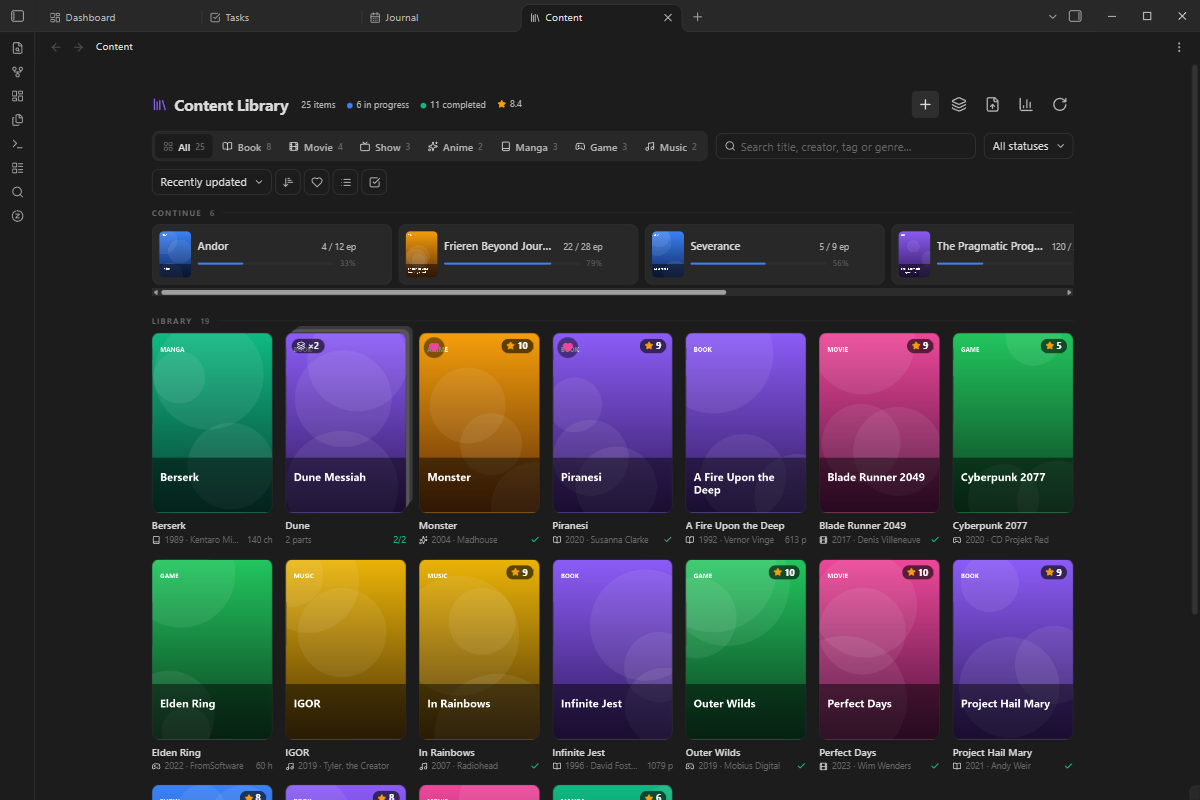
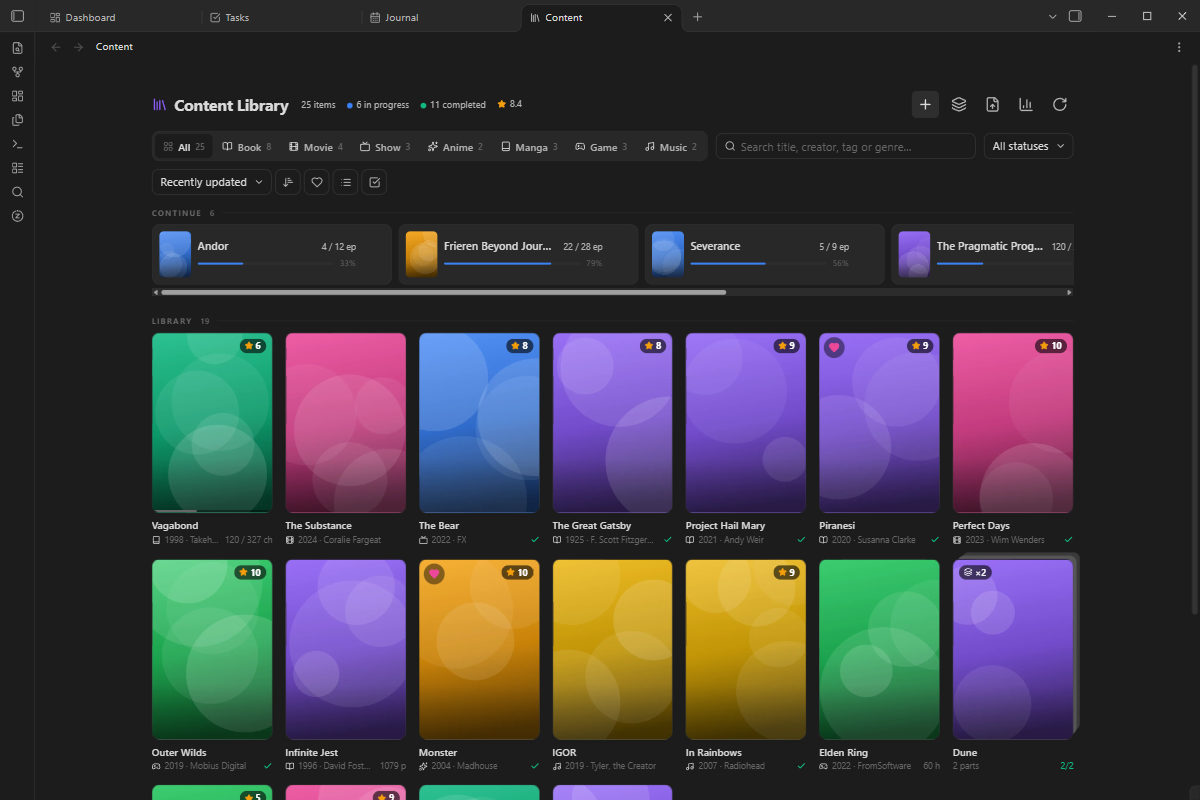
README: the pictures retaken on this build and the new demo vault
The library's covers without words on them, the Library card with its third row, Zenith's own icon in the ribbon throughout. The pictures are now simply of the demo vault: the board they show is the one it opens on.

diff --git a/README.ru.md b/README.ru.md
@@ -35,8 +35,8 @@
 | --- | --- | --- | --- | --- |
 | ![Дашборд на телефоне](docs/images/screenshots/mobile-1-dashboard.png) | ![Задачи на телефоне](docs/images/screenshots/mobile-2-tasks.png) | ![Дневник на телефоне](docs/images/screenshots/mobile-3-journal.png) | ![Библиотека на телефоне](docs/images/screenshots/mobile-4-library.png) | ![Доска ниже по экрану](docs/images/screenshots/mobile-5-board.png) |
 
-Всё на картинках выдумано: они сняты в демо-хранилище, которое прилагается к каждому
-[релизу](https://github.com/saifun0/obsidian-zenith/releases), с доской, собранной для съёмки.
+Всё на картинках выдумано: это демо-хранилище, которое прилагается к каждому
+[релизу](https://github.com/saifun0/obsidian-zenith/releases).
 
 ---
 

diff --git a/README.md b/README.md
@@ -35,8 +35,8 @@ On a phone:
 | --- | --- | --- | --- | --- |
 | ![The dashboard on a phone](docs/images/screenshots/mobile-1-dashboard.png) | ![Tasks on a phone](docs/images/screenshots/mobile-2-tasks.png) | ![The journal on a phone](docs/images/screenshots/mobile-3-journal.png) | ![The library on a phone](docs/images/screenshots/mobile-4-library.png) | ![Further down the board on a phone](docs/images/screenshots/mobile-5-board.png) |
 
-Everything in the pictures is made up: they are taken in the demo vault that comes with each
-[release](https://github.com/saifun0/obsidian-zenith/releases), with a board arranged for the occasion.
+Everything in the pictures is made up: they are of the demo vault that comes with each
+[release](https://github.com/saifun0/obsidian-zenith/releases).
 
 ---
 
